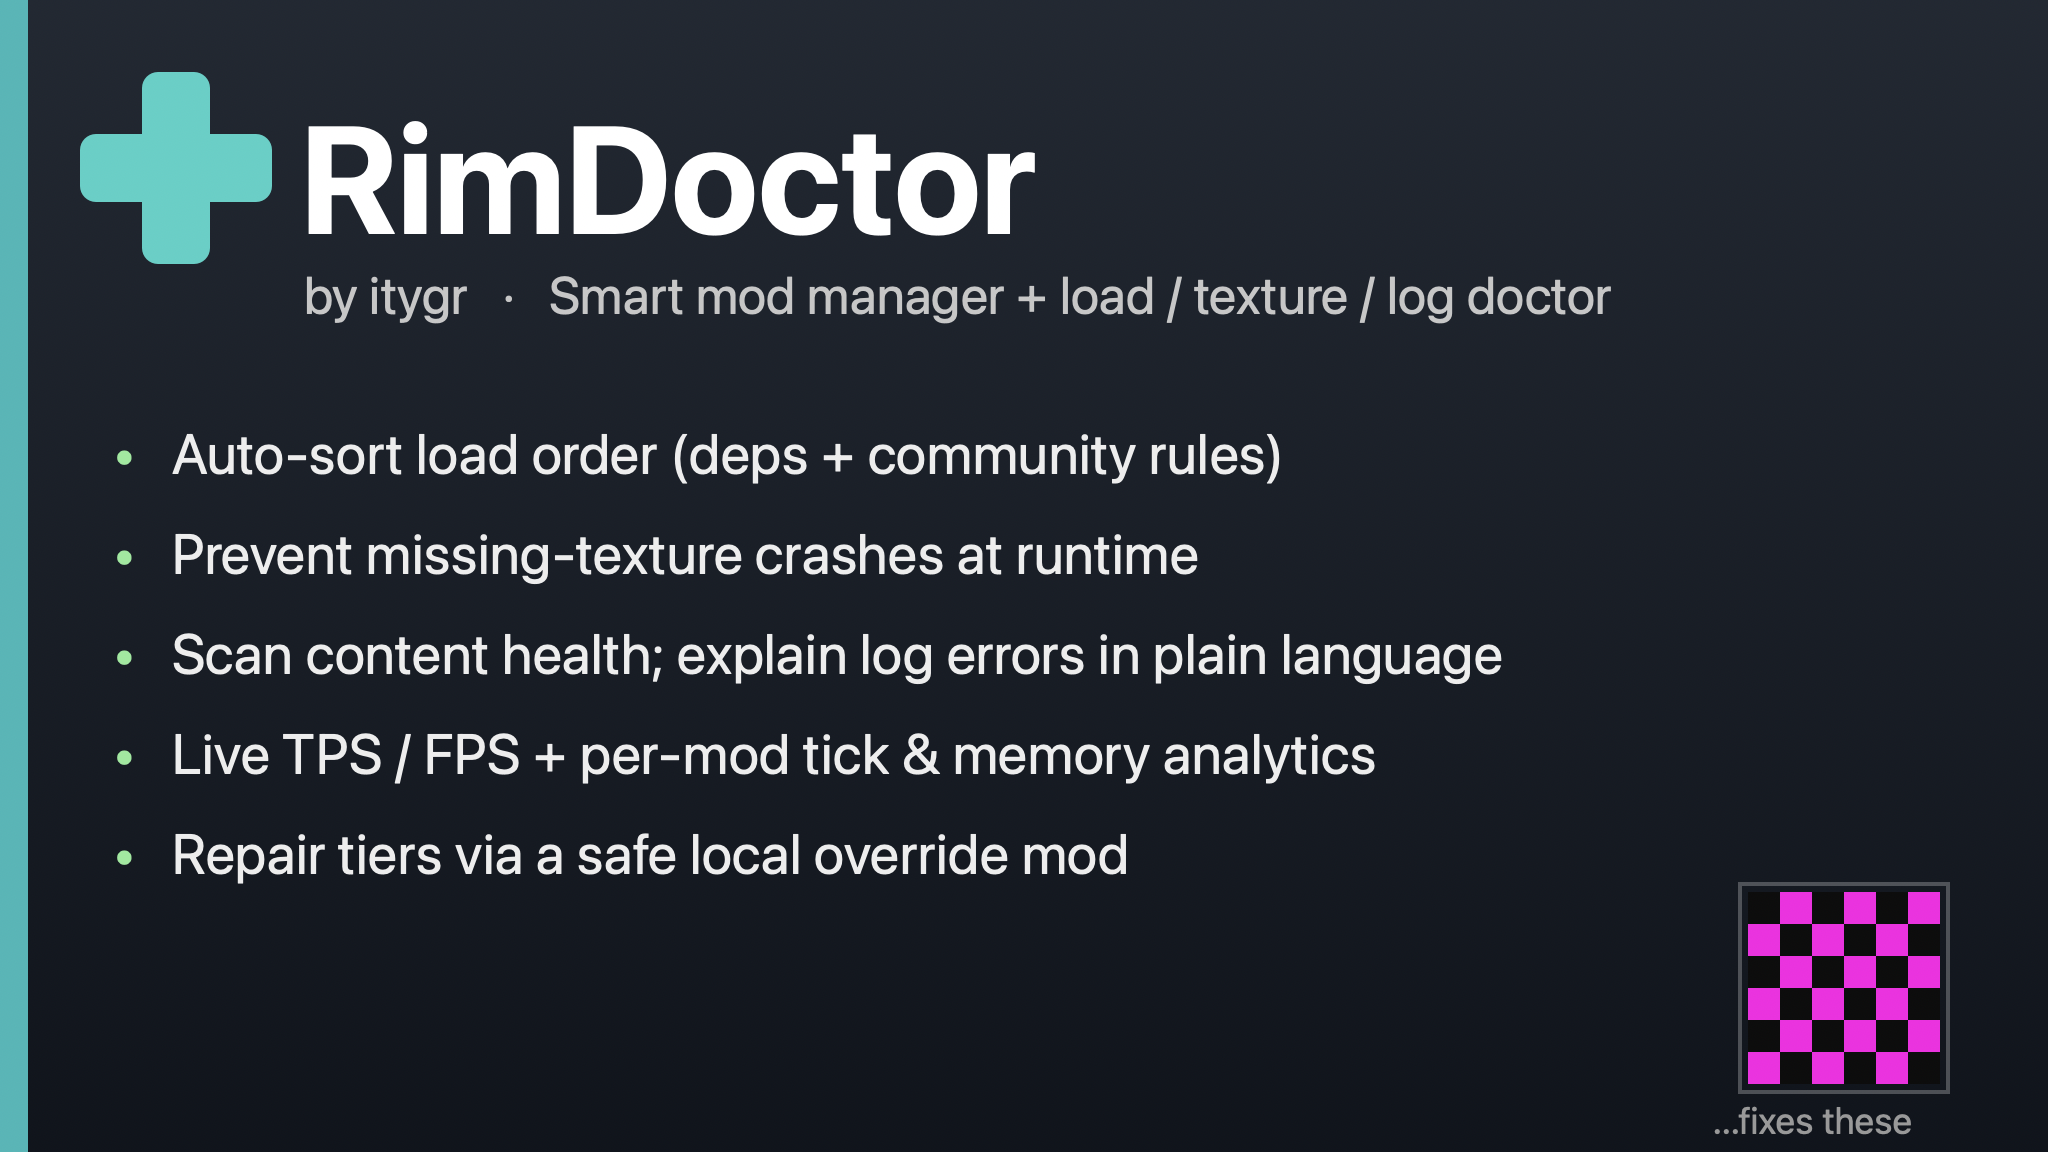
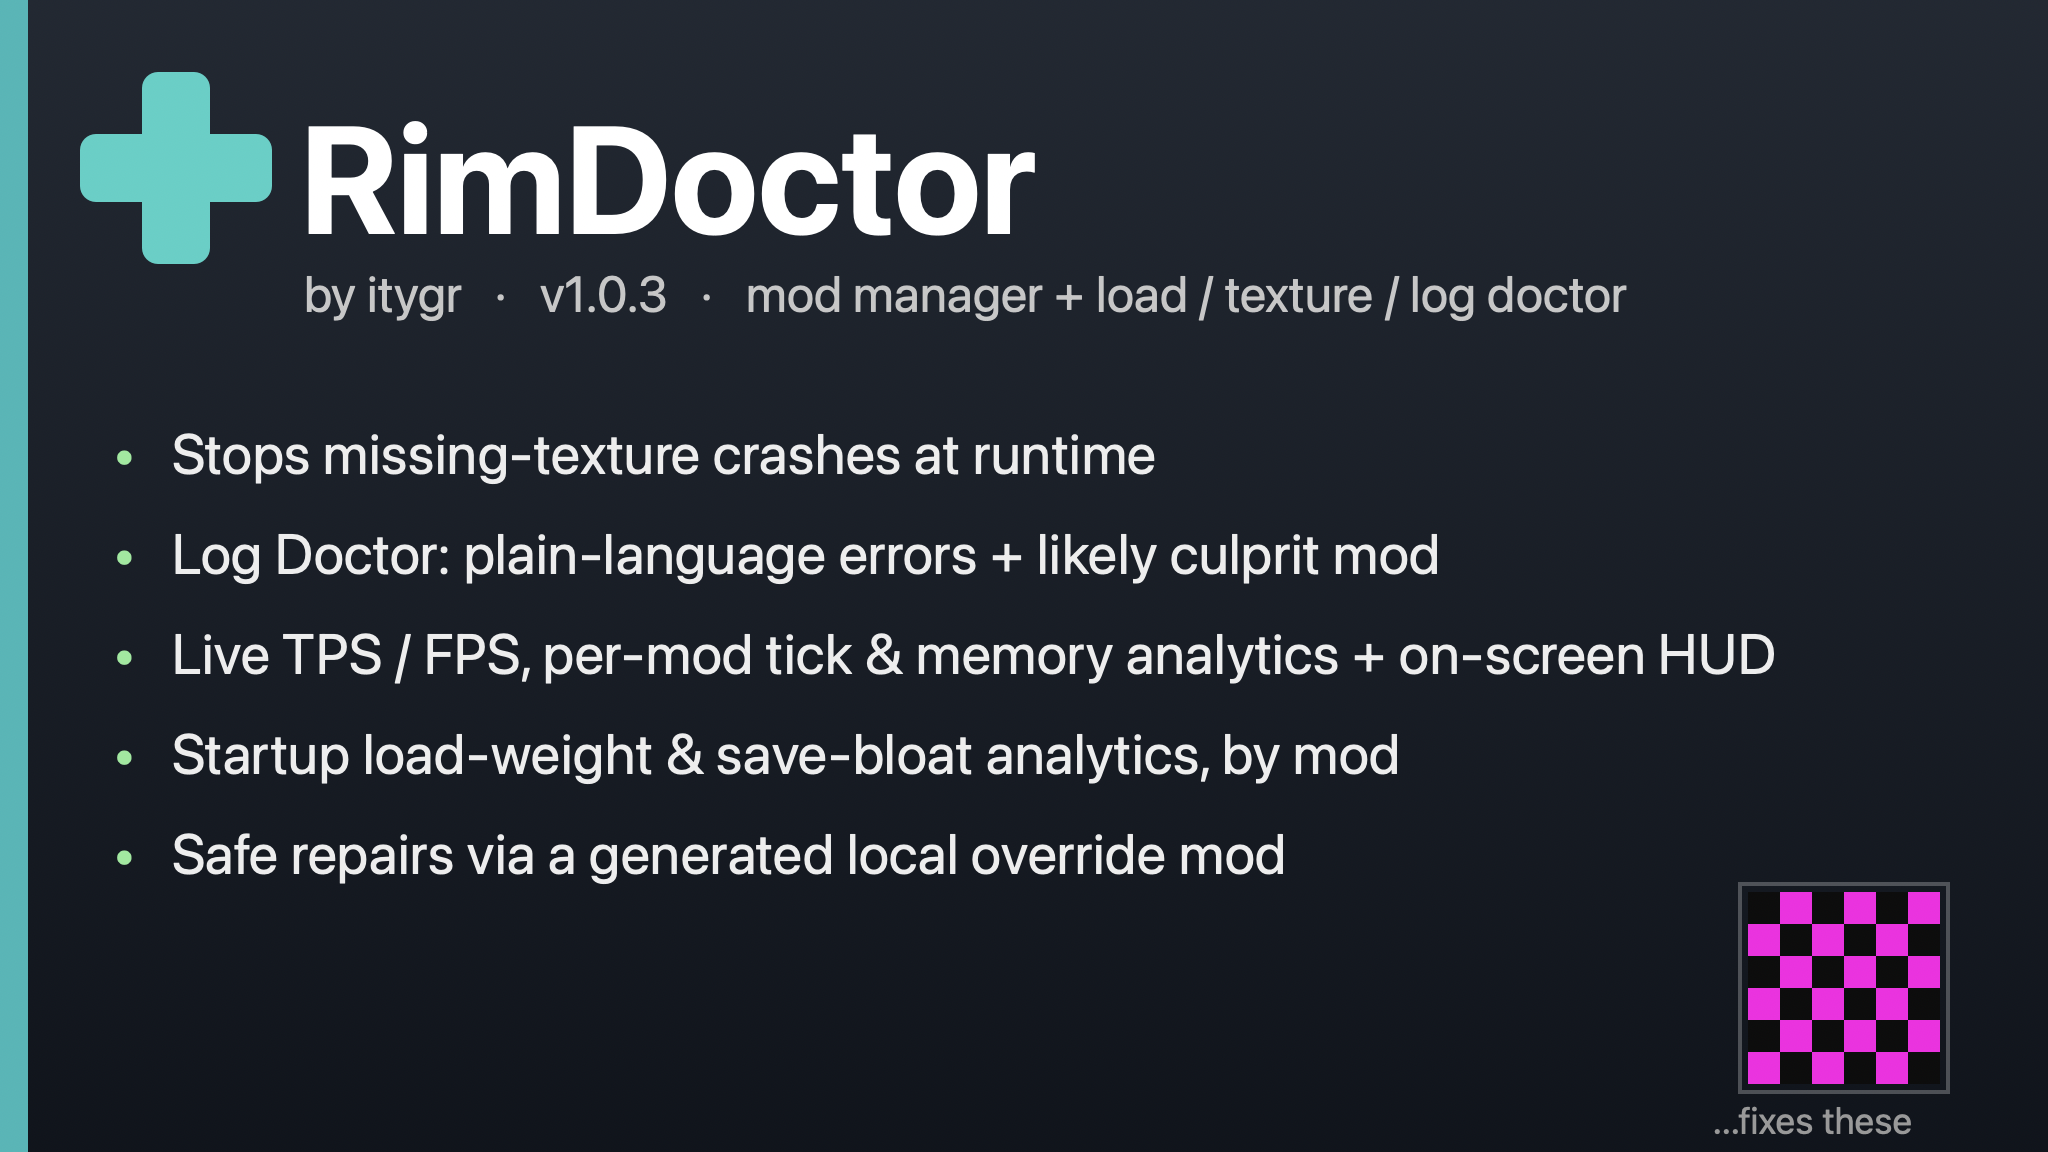
v1.0.3: refresh Preview (version + accurate feature list)

diff --git a/tools/make_preview.swift b/tools/make_preview.swift
@@ -41,14 +41,14 @@ let dim = NSColor(white: 0.78, alpha: 1)
 let green = NSColor(red: 0.55, green: 0.92, blue: 0.6, alpha: 1)
 
 draw("RimDoctor", x: 150, topY: 44, size: 76, color: white, bold: true)
-draw("by itygr   ·   Smart mod manager + load / texture / log doctor", x: 152, topY: 132, size: 26, color: dim)
+draw("by itygr   ·   v1.0.3   ·   mod manager + load / texture / log doctor", x: 152, topY: 132, size: 25, color: dim)
 
 let bullets = [
-    "Auto-sort load order (deps + community rules)",
-    "Prevent missing-texture crashes at runtime",
-    "Scan content health; explain log errors in plain language",
-    "Live TPS / FPS + per-mod tick & memory analytics",
-    "Repair tiers via a safe local override mod",
+    "Stops missing-texture crashes at runtime",
+    "Log Doctor: plain-language errors + likely culprit mod",
+    "Live TPS / FPS, per-mod tick & memory analytics + on-screen HUD",
+    "Startup load-weight & save-bloat analytics, by mod",
+    "Safe repairs via a generated local override mod",
 ]
 var y: CGFloat = 210
 for b in bullets {